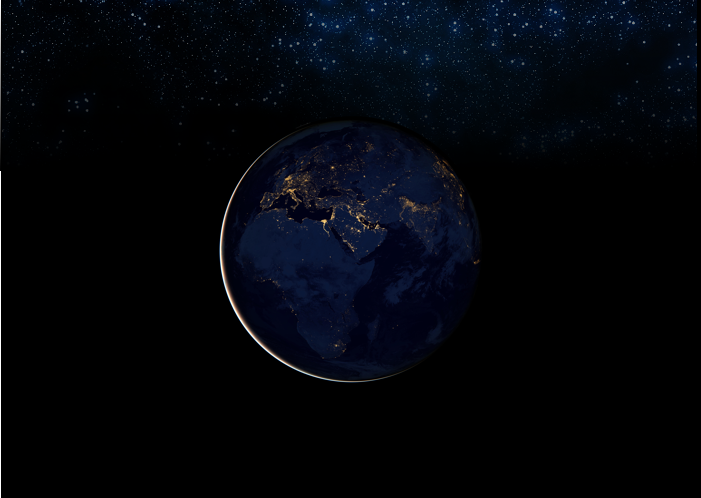
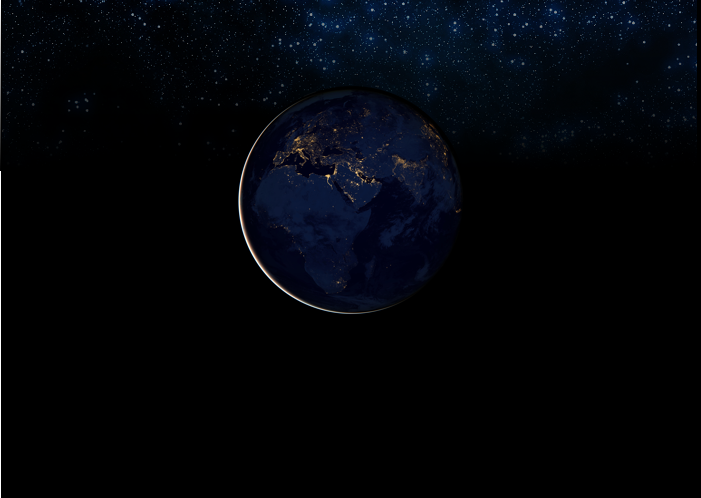
Fix for 320px devices with browser

Changed region(s): [[0.2996, 0.1807, 0.689, 0.7831]]

diff --git a/_sass/case-studies/cities-at-night/_transcript.scss b/_sass/case-studies/cities-at-night/_transcript.scss
@@ -80,13 +80,13 @@ margin-top: 200px;
     padding-left: 10%;
     padding-right: 10%;
     text-align: left;
-    margin-top: 165px;
+    margin-top: 110px;
     min-height: 115px;
     height: 200px;
     }
 
     .more {
-    margin-top: 200px;
+    margin-top: 150px;
     }
     
     #know-more {

diff --git a/_sass/case-studies/cities-at-night/_all.scss b/_sass/case-studies/cities-at-night/_all.scss
@@ -426,7 +426,7 @@
             }
 
             .jumbotron h1{
-                margin-top:150px;
+                margin-top:110px;
             }
 
             .btn-info {
